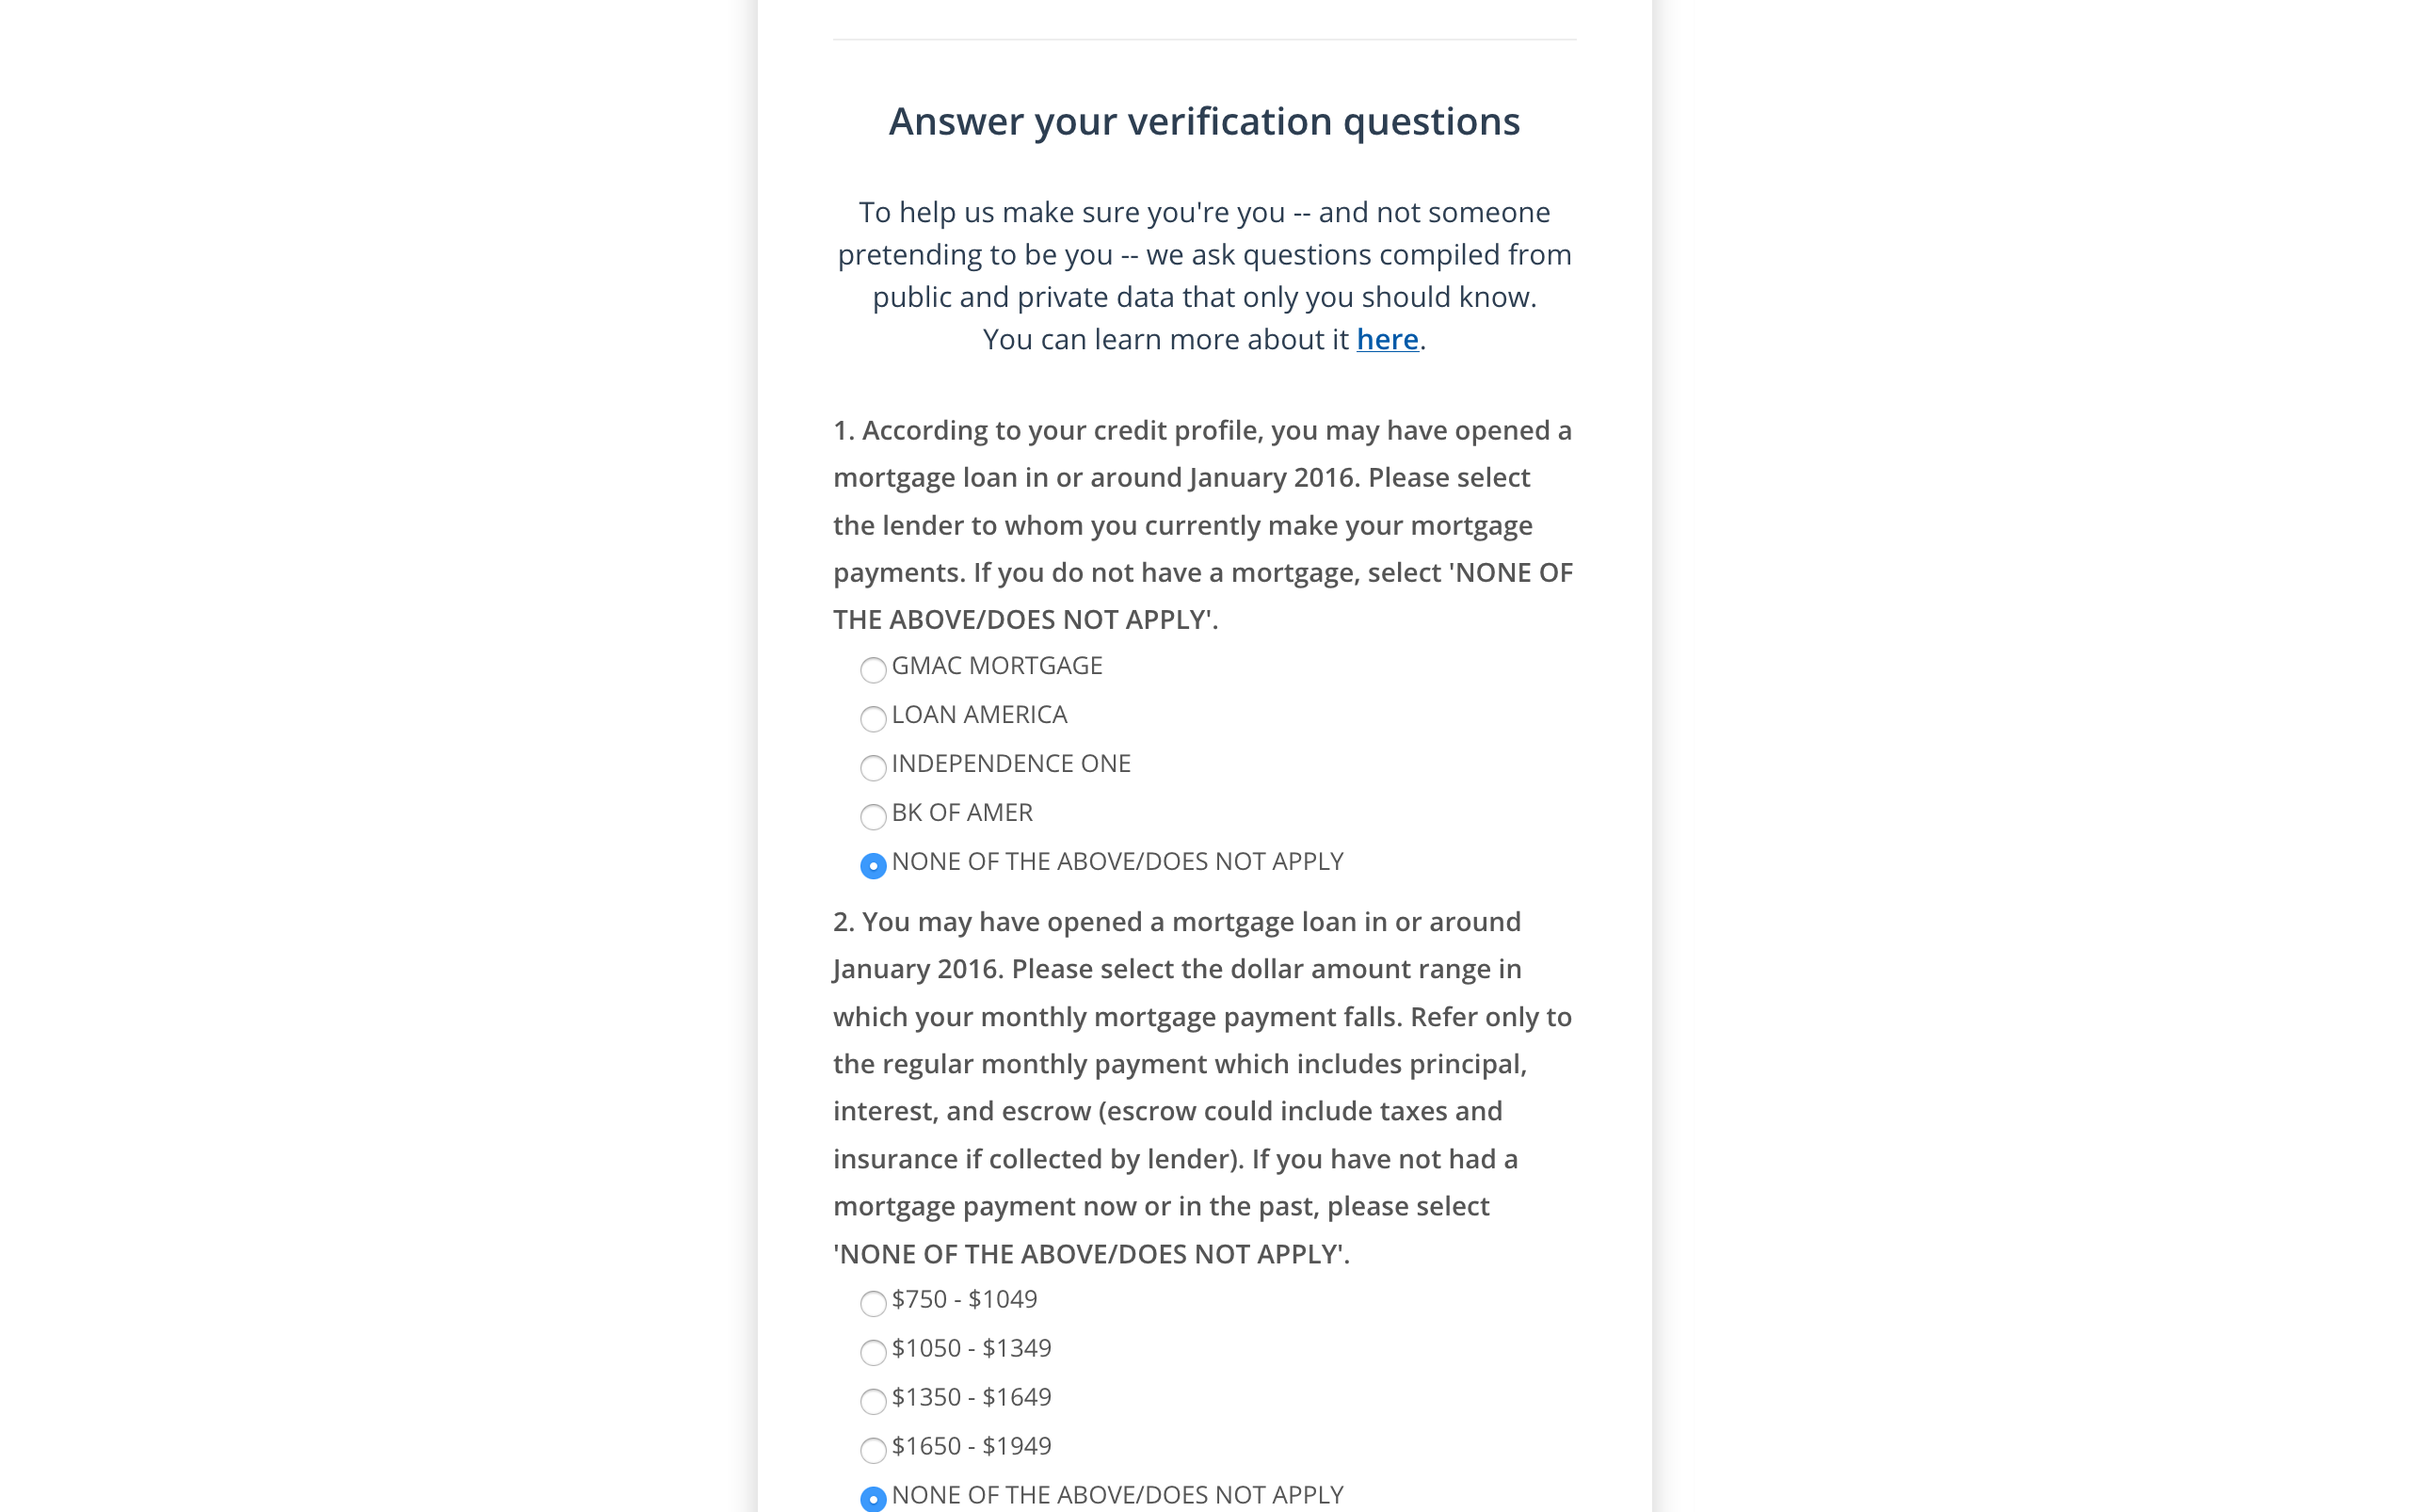
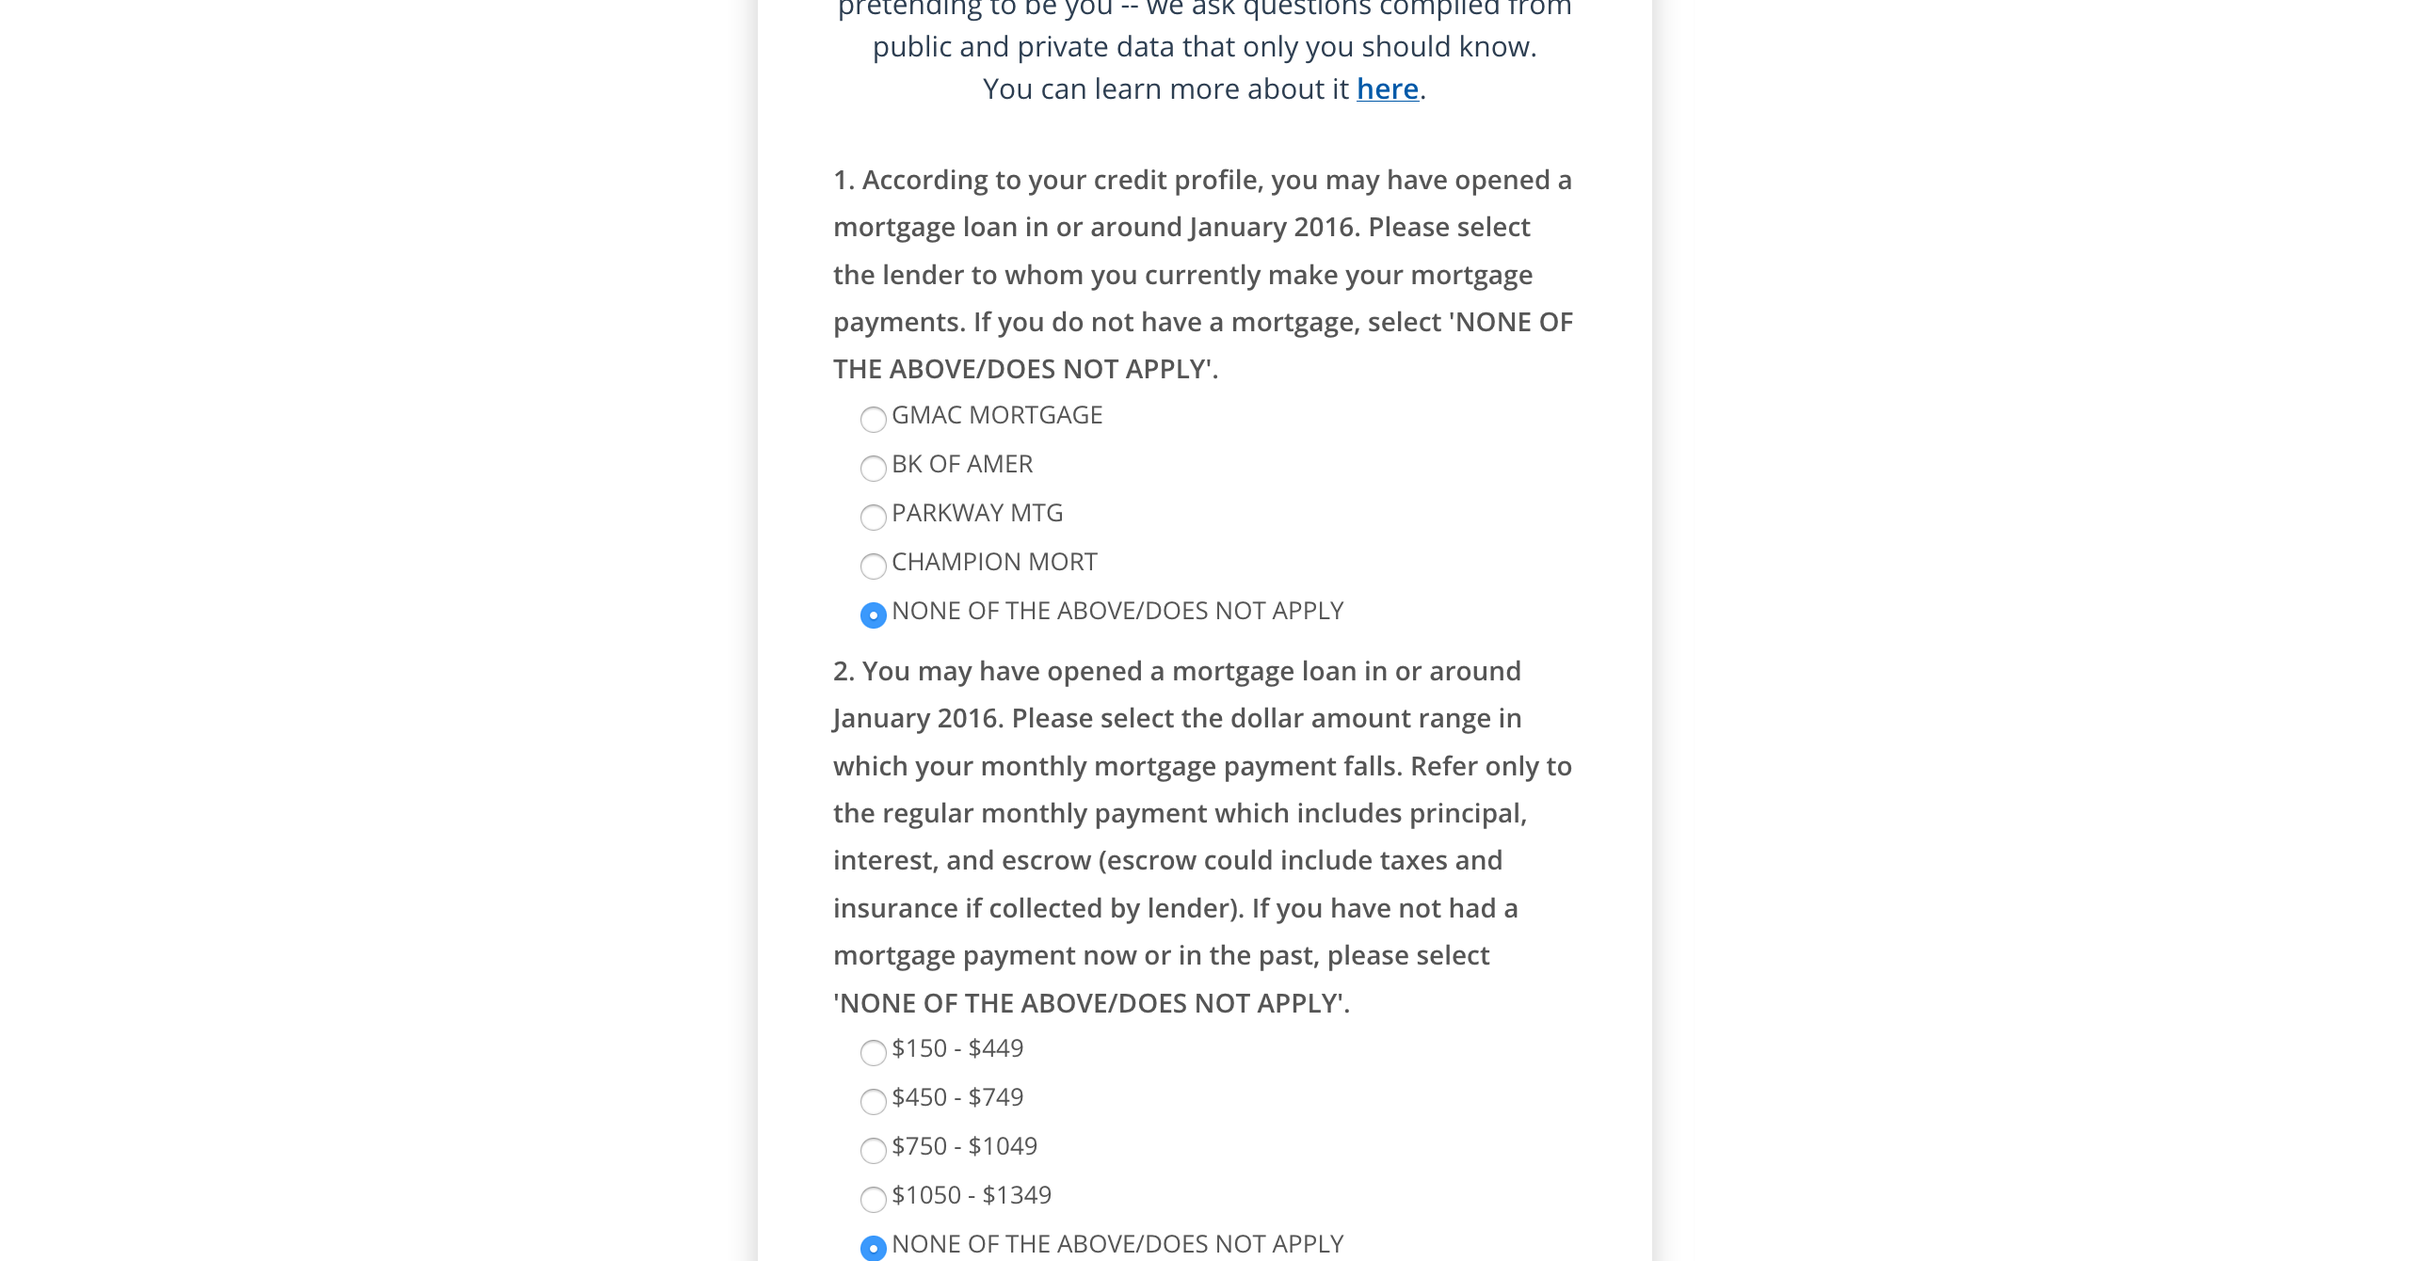
AWE-1817: KBA: Failed KBA

Changed region(s): [[0.3438, 0.1224, 0.6562, 1.0], [0.3438, 0.0, 0.6562, 0.0918]]

diff --git a/features/support/app_pages/admin/admin_settings.rb b/features/support/app_pages/admin/admin_settings.rb
@@ -18,7 +18,7 @@ include PageManagement
             %w(Mock Disable Mock Mock Production Production Production Mock Disable On Mock Mock)
           when "fail experian", "fail SCRA"
             %w(Staging Mock Mock Mock Production Production Production Mock Disable On Mock Mock)
-          when "fail documentation"
+          when "fail documentation", "fail kba"
             %w(Staging Production Mock\ Fail Mock Production Production Production Mock Disable On Mock Mock)
           when "fail documentation/successful kba", "successful kba"
             %w(Mock Production Mock\ Fail Mock Production Production Production Mock Disable On Mock Mock)

diff --git a/features/support/app_pages/idv/idv_upload_computer.rb b/features/support/app_pages/idv/idv_upload_computer.rb
@@ -67,7 +67,7 @@ class IDVComputer < IDmeBase
     fail_idv_user = data_for(:experian_user4)
 
     case action
-    when "verify"
+    when "verify", "fail kba"
       populate = true
       user = idv_user
     when "fail experian"

diff --git a/CHANGELOG.md b/CHANGELOG.md
@@ -6,6 +6,7 @@ All notable changes to this project will be documented in this file. This projec
 # 2.5.26 (9/20/18)
 - AWE-1816: KBA: Failed Experian
 - AWE-1824: Update vulnerable dependencies within idme-revelator
+- AWE-1817: KBA: Failed KBA
 
 # 2.5.25 (9/19/18)
 - AWE-1815: KBA: Successful Verification
